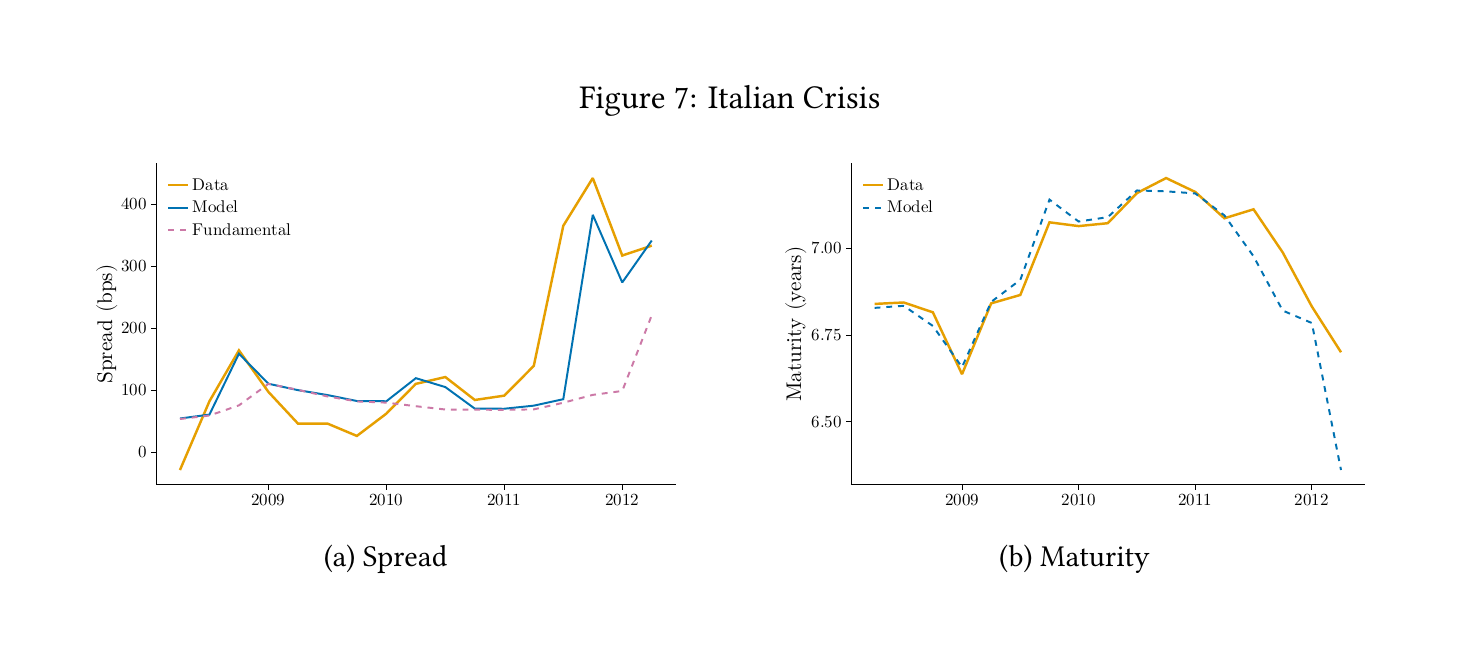
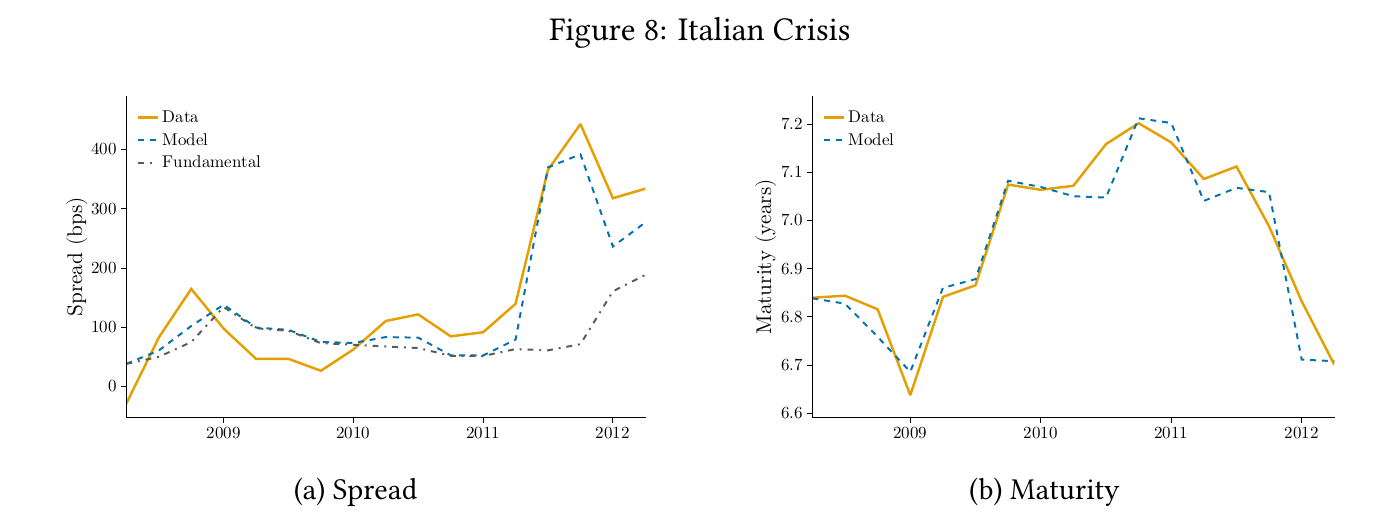
Update confidence-crises draft and figure
- Replace Quantitative_Self_fulfilling_Crises.pdf with the new draft.
- Re-cut the confidence figure from the updated draft (now Figure 8:
  Italian Crisis, panels Spread + Maturity) and cache-bust its <img> src.

diff --git a/research.html b/research.html
@@ -48,7 +48,7 @@
         <h3>Take the Short Route in Confidence Crises</h3>
         <p class="authors-c">Co-authors: Teerat Wongrattanapiboon</p>
         <div class="paper-body">
-          <div class="fig"><img src="img/fig-confidence.png" alt=""></div>
+          <div class="fig"><img src="img/fig-confidence.png?v=2" alt=""></div>
           <div class="abs">
             <p class="abstract">During the 2010-2012 European debt crisis, Italian sovereign spreads spiked far
               beyond what fundamentals could explain, while debt maturity shortened. Existing quantitative work